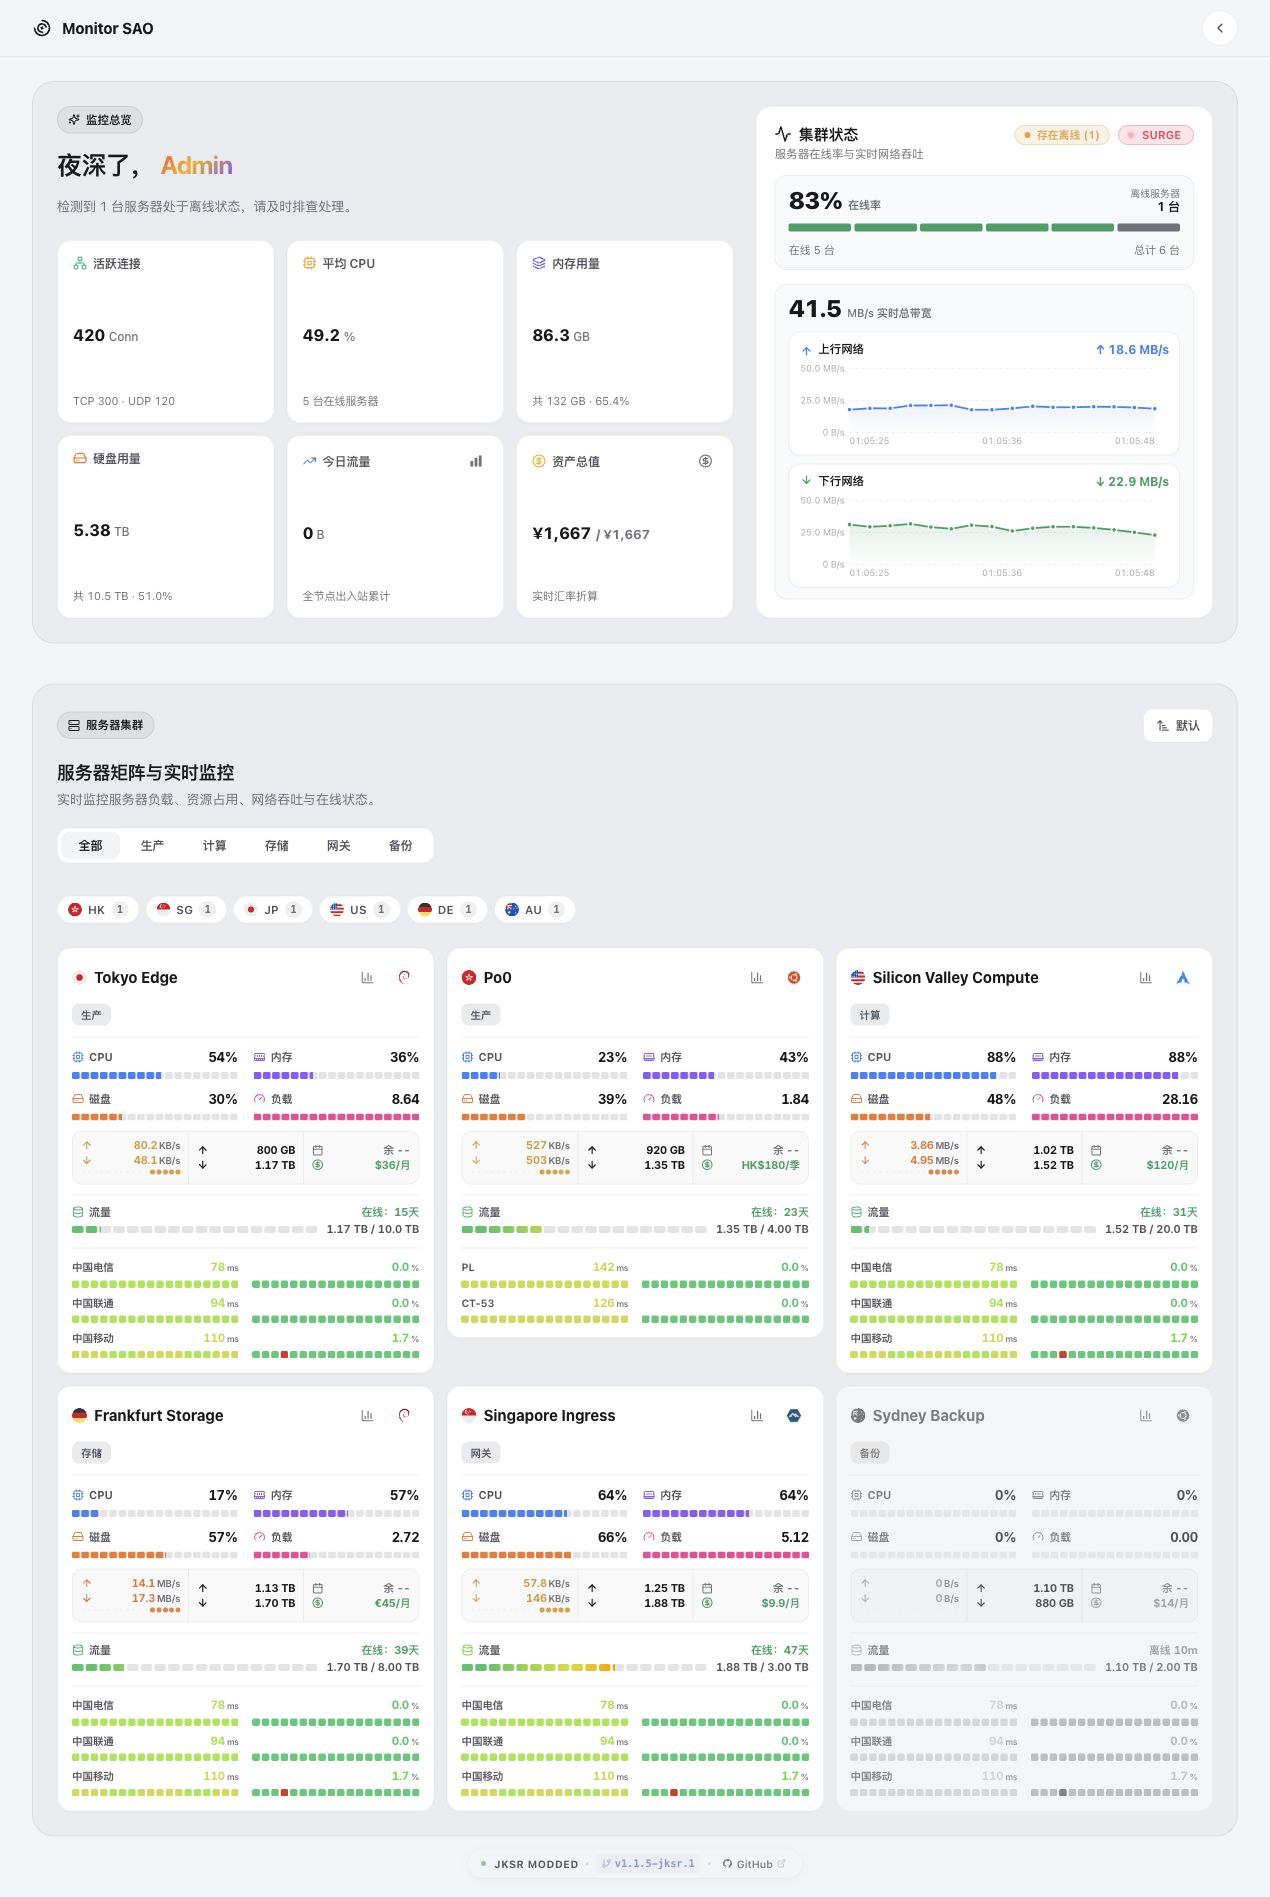
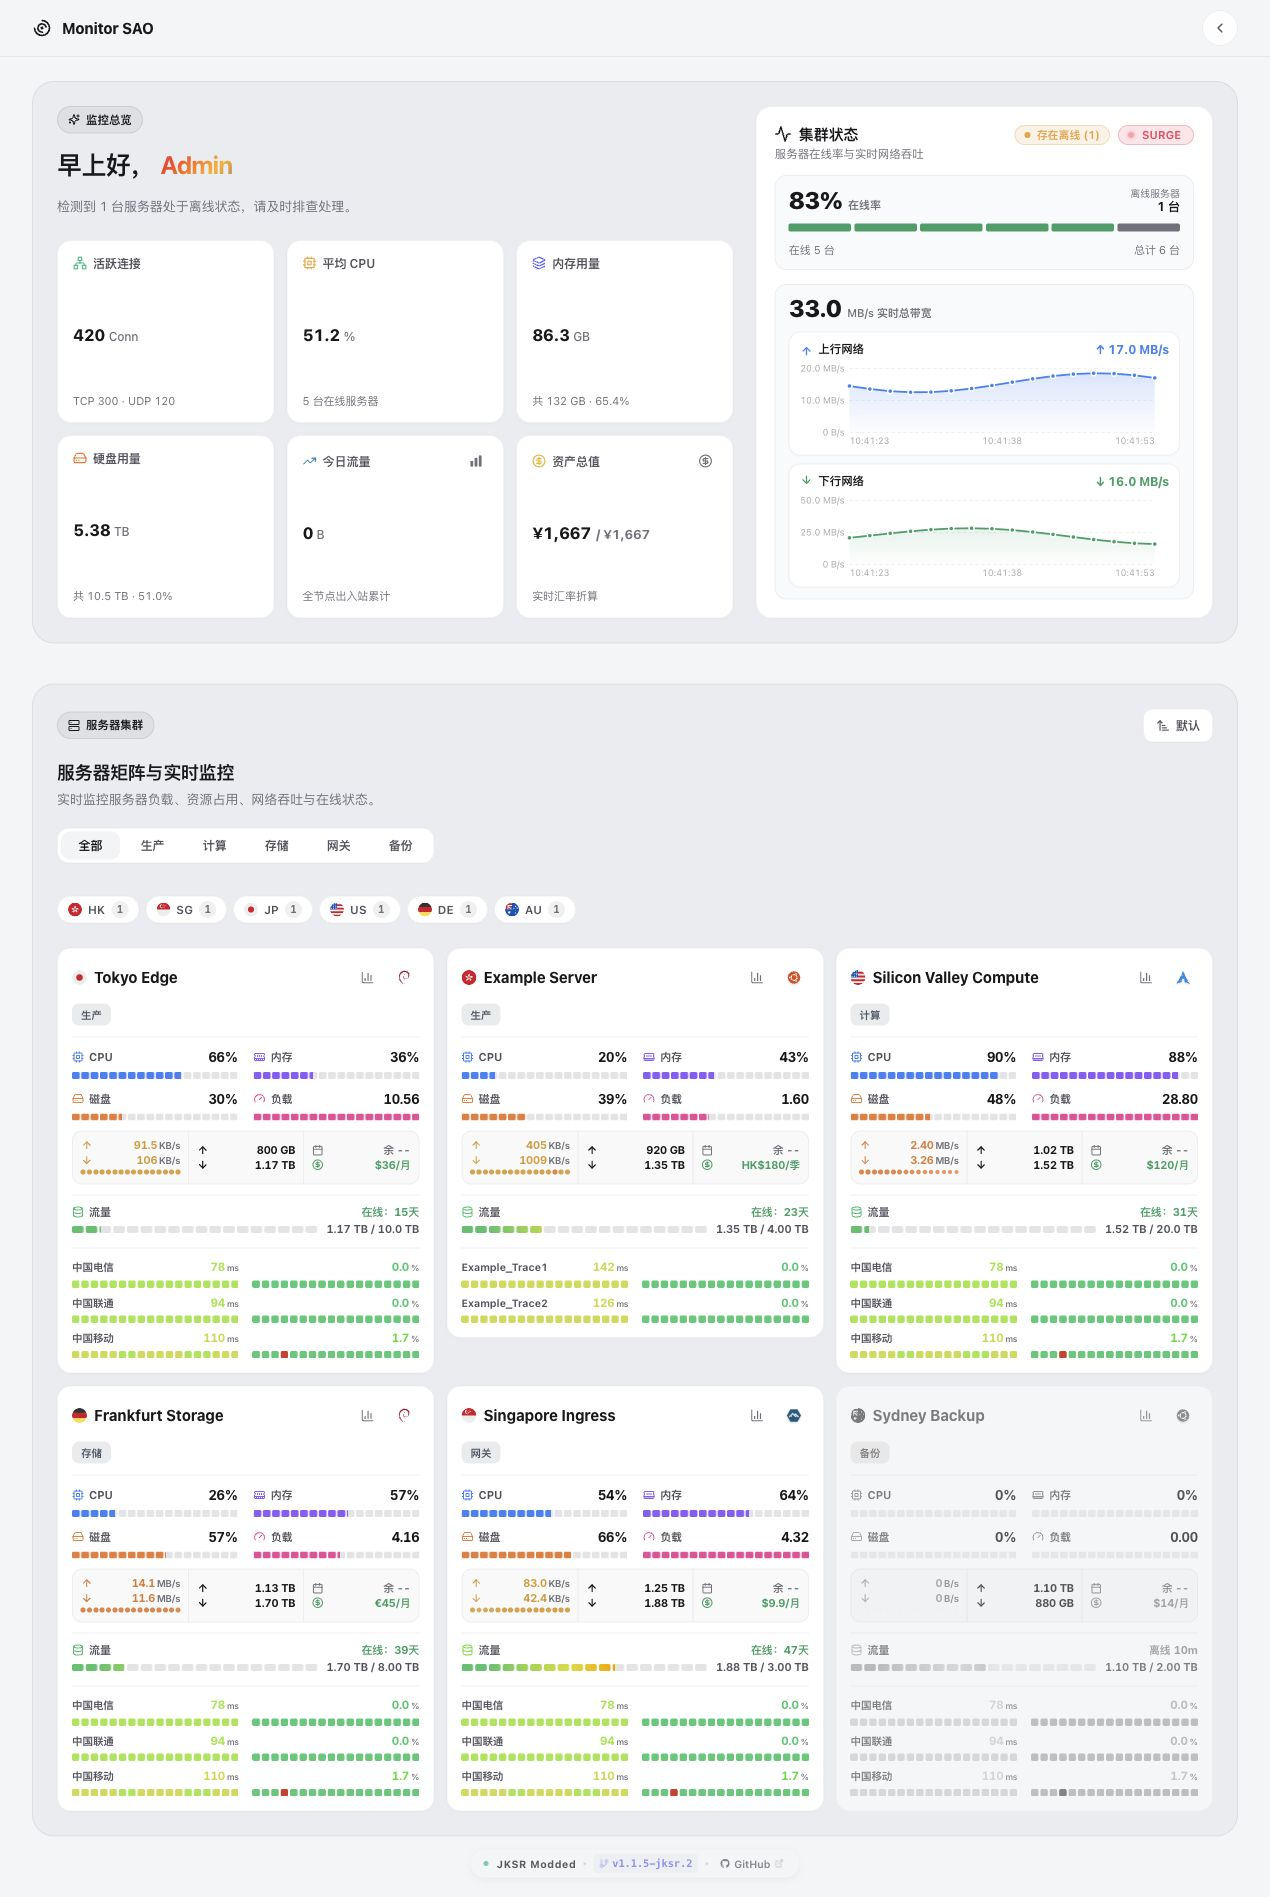
Lint files.

diff --git a/src/hooks/__tests__/nodePingOverview.test.ts b/src/hooks/__tests__/nodePingOverview.test.ts
@@ -2,33 +2,33 @@ import { describe, expect, it, vi } from "vitest";
 import { buildPingOverviewMap } from "@/hooks/usePingOverview";
 import type { PingRecordsResponse, PingTask } from "@/types/komari";
 const task = (id: number, name: string, clients: string[]): PingTask => ({ id, name, clients, interval: 60, loss: 0, type: "icmp", target: "", weight: id });
-const tasks = [task(1, "CT", ["normal"]), task(2, "CU", ["normal"]), task(3, "CM", ["normal"]), task(5, "PL", ["po0"]), task(4, "CT-53", ["po0"]), task(8, "无样本", ["offline"])];
+const tasks = [task(1, "CT", ["normal"]), task(2, "CU", ["normal"]), task(3, "CM", ["normal"]), task(5, "Example_Trace1", ["example-node"]), task(4, "Example_Trace2", ["example-node"]), task(8, "无样本", ["offline"])];
 const data: PingRecordsResponse = { count: 5, tasks, intervalSeconds: 300, records: tasks.slice(0, 5).map((t) => ({ client: t.clients[0], task_id: t.id, time: 1_780_000_000_000, value: 60, loss: 0 })) };
 
 describe("逐节点概览集成", () => {
-  it("同时加载全局三网、Po0 自定义两线和自动节点，保留每个节点顺序", async () => {
+  it("同时加载全局三网、Example Server 自定义两线和自动节点，保留每个节点顺序", async () => {
     const loader = vi.fn(async () => data);
-    const result = await buildPingOverviewMap(1, ["normal", "po0", "offline", "empty"], { "1": ["po0", "offline"] }, [1, 2, 3], undefined, undefined, loader, undefined, undefined, {
-      globalAuto: false, nodeSettings: { po0: { mode: "custom", taskIds: [5, 4] }, offline: { mode: "auto" }, empty: { mode: "auto" } },
+    const result = await buildPingOverviewMap(1, ["normal", "example-node", "offline", "empty"], { "1": ["example-node", "offline"] }, [1, 2, 3], undefined, undefined, loader, undefined, undefined, {
+      globalAuto: false, nodeSettings: { "example-node": { mode: "custom", taskIds: [5, 4] }, offline: { mode: "auto" }, empty: { mode: "auto" } },
     });
     expect(result.multiLines.get("normal")?.map((line) => line.taskName)).toEqual(["CT", "CU", "CM"]);
-    expect(result.multiLines.get("po0")?.map((line) => line.taskName)).toEqual(["PL", "CT-53"]);
+    expect(result.multiLines.get("example-node")?.map((line) => line.taskName)).toEqual(["Example_Trace1", "Example_Trace2"]);
     expect(result.multiLines.get("offline")?.[0]).toMatchObject({ taskId: 8, lastValue: null, loadState: "ready" });
     expect(result.multiLines.has("empty")).toBe(false);
   });
-  it("全局清空可自动展示不同数量；旧 Po0 单线不会截断", async () => {
-    const result = await buildPingOverviewMap(1, ["normal", "po0"], { "4": ["po0"] }, [], undefined, undefined, async () => data, undefined, undefined, { globalAuto: true, nodeSettings: {} });
+  it("全局清空可自动展示不同数量；旧 Example Server 单线不会截断", async () => {
+    const result = await buildPingOverviewMap(1, ["normal", "example-node"], { "4": ["example-node"] }, [], undefined, undefined, async () => data, undefined, undefined, { globalAuto: true, nodeSettings: {} });
     expect(result.multiLines.get("normal")?.map((line) => line.taskId)).toEqual([1, 2, 3]);
-    expect(result.multiLines.get("po0")?.map((line) => line.taskId)).toEqual([5, 4]);
+    expect(result.multiLines.get("example-node")?.map((line) => line.taskId)).toEqual([5, 4]);
   });
   it("任务删除保留空占位，关联变化更新自动任务列表", async () => {
-    const result = await buildPingOverviewMap(1, ["po0"], {}, [], undefined, undefined, async () => ({ count: 0, tasks: [], records: [] }), undefined, undefined, { globalAuto: false, nodeSettings: { po0: { mode: "custom", taskIds: [999] } } });
-    expect(result.multiLines.get("po0")?.[0]).toMatchObject({ taskId: 999, lastValue: null, taskName: "任务 #999（已删除或未关联）" });
-    const auto = await buildPingOverviewMap(1, ["po0"], {}, [], undefined, undefined, async () => ({ count: 0, tasks: [task(9, "新关联", ["po0"])], records: [] }), undefined, undefined, { globalAuto: false, nodeSettings: { po0: { mode: "auto" } } });
-    expect(auto.multiLines.get("po0")?.map((line) => line.taskId)).toEqual([9]);
+    const result = await buildPingOverviewMap(1, ["example-node"], {}, [], undefined, undefined, async () => ({ count: 0, tasks: [], records: [] }), undefined, undefined, { globalAuto: false, nodeSettings: { "example-node": { mode: "custom", taskIds: [999] } } });
+    expect(result.multiLines.get("example-node")?.[0]).toMatchObject({ taskId: 999, lastValue: null, taskName: "任务 #999（已删除或未关联）" });
+    const auto = await buildPingOverviewMap(1, ["example-node"], {}, [], undefined, undefined, async () => ({ count: 0, tasks: [task(9, "新关联", ["example-node"])], records: [] }), undefined, undefined, { globalAuto: false, nodeSettings: { "example-node": { mode: "auto" } } });
+    expect(auto.multiLines.get("example-node")?.map((line) => line.taskId)).toEqual([9]);
   });
   it("取数失败保留错误占位，不回退其他任务", async () => {
-    const result = await buildPingOverviewMap(1, ["po0"], { "1": ["po0"] }, [1, 2, 3], undefined, undefined, async () => { throw new Error("offline"); }, undefined, undefined, { globalAuto: false, nodeSettings: { po0: { mode: "custom", taskIds: [5, 4] } } });
-    expect(result.multiLines.get("po0")?.map((line) => [line.taskId, line.loadState])).toEqual([[5, "error"], [4, "error"]]);
+    const result = await buildPingOverviewMap(1, ["example-node"], { "1": ["example-node"] }, [1, 2, 3], undefined, undefined, async () => { throw new Error("offline"); }, undefined, undefined, { globalAuto: false, nodeSettings: { "example-node": { mode: "custom", taskIds: [5, 4] } } });
+    expect(result.multiLines.get("example-node")?.map((line) => [line.taskId, line.loadState])).toEqual([[5, "error"], [4, "error"]]);
   });
 });

diff --git a/src/services/__tests__/api.test.ts b/src/services/__tests__/api.test.ts
@@ -173,7 +173,7 @@ describe("Monitor API Service", () => {
         return new Response(JSON.stringify({ site_name: "Test", public_page: true }), { headers: { "content-type": "application/json" } });
       });
       await saveThemeSettings({ enableHomepageMultiPing: true, homepageMultiPingTaskIds: [],
-        homepageNodePingSettings: { "po0-id": { mode: "custom", taskIds: [5, 4] }, auto: { mode: "auto" } },
+        homepageNodePingSettings: { "example-node-id": { mode: "custom", taskIds: [5, 4] }, auto: { mode: "auto" } },
         homepagePingBindings: { "1": ["auto"] } });
       expect(saved.futureSetting).toBe("keep");
       expect(saved.homepageMultiPingTaskIds).toBe("[]");
@@ -182,7 +182,7 @@ describe("Monitor API Service", () => {
       resetLocalThemeSettings(); clearServerThemeSettingsCache();
       const result = await getPublic();
       expect(result.theme_settings.homepageMultiPingTaskIds).toEqual([]);
-      expect(result.theme_settings.homepageNodePingSettings).toEqual({ "po0-id": { mode: "custom", taskIds: [5, 4] }, auto: { mode: "auto" } });
+      expect(result.theme_settings.homepageNodePingSettings).toEqual({ "example-node-id": { mode: "custom", taskIds: [5, 4] }, auto: { mode: "auto" } });
     });
     it("保存失败不会更新本地，也不会被报告为成功；读取失败不发 PUT", async () => {
       resetLocalThemeSettings(); saveLocalThemeSettings({ homepageMultiPingTaskIds: [1] });

diff --git a/src/utils/__tests__/nodePingSettings.test.ts b/src/utils/__tests__/nodePingSettings.test.ts
@@ -3,12 +3,12 @@ import { normalizeHomepageNodePingSettings, resolveHomepagePingSelections } from
 import { normalizeThemeSettings } from "@/utils/themeSettings";
 
 describe("逐服务器线路优先级与兼容", () => {
-  it("普通节点跟随三网，Po0 按稳定 ID 指定 PL、CT-53 顺序", () => {
-    const result = resolveHomepagePingSelections(["node-ct", "po0-id"], { "1": ["po0-id"] }, [1, 2, 3], {
-      globalAuto: false, nodeSettings: { "po0-id": { mode: "custom", taskIds: [5, 4] } },
+  it("普通节点跟随三网，Example Server 按稳定 ID 指定 Example_Trace1、Example_Trace2 顺序", () => {
+    const result = resolveHomepagePingSelections(["node-ct", "example-node-id"], { "1": ["example-node-id"] }, [1, 2, 3], {
+      globalAuto: false, nodeSettings: { "example-node-id": { mode: "custom", taskIds: [5, 4] } },
     });
     expect(result.multiTaskIdsByClient.get("node-ct")).toEqual([1, 2, 3]);
-    expect(result.multiTaskIdsByClient.get("po0-id")).toEqual([5, 4]);
+    expect(result.multiTaskIdsByClient.get("example-node-id")).toEqual([5, 4]);
   });
   it("显式自动不受旧绑定或全局槽位限制，跟随全局仍保留单线路", () => {
     const result = resolveHomepagePingSelections(["auto", "old"], { "7": ["auto", "old"] }, [], {

diff --git a/src/dev/mockApi.ts b/src/dev/mockApi.ts
@@ -233,7 +233,7 @@ function getMockNodes(): NodeInfo[] {
 
 const nodes: NodeInfo[] = getMockNodes();
 const pingScenario = typeof window !== "undefined" && new URLSearchParams(window.location.search).get("pingScenario") === "1";
-if (pingScenario && nodes[1]) nodes[1] = { ...nodes[1], name: "Po0" };
+if (pingScenario && nodes[1]) nodes[1] = { ...nodes[1], name: "Example Server" };
 
 function wave(seed: number, period: number, amplitude: number, offset: number) {
   return offset + Math.sin((Date.now() / period) * (1 + seed * 0.17)) * amplitude;
@@ -502,7 +502,7 @@ const pingTasks = [
   { id: 1, name: "中国电信", target: "电信探针" },
   { id: 2, name: "中国联通", target: "联通探针" },
   { id: 3, name: "中国移动", target: "移动探针" },
-  ...(pingScenario ? [{ id: 5, name: "PL", target: "Po0 PL" }, { id: 4, name: "CT-53", target: "Po0 CT-53" }] : []),
+  ...(pingScenario ? [{ id: 5, name: "Example_Trace1", target: "example.invalid" }, { id: 4, name: "Example_Trace2", target: "example.invalid" }] : []),
 ].map((task, index) => ({
   ...task,
   interval: 60,

diff --git a/README.md b/README.md
@@ -2,19 +2,18 @@
 
 本 Fork 在 Monitor-SAO 基础上增加逐服务器多线路和独立丢包色带，版本为 `1.1.5-jksr.2`。保持主题短名 `sao`，沿用原站点配置。
 
-- **逐服务器线路**：在“主题设置 → 延迟”选择跟随全局、自动或自定义；按节点 ID/UUID 保存，自定义支持 1–8 个任务及排序。例如普通节点跟随 CT/CU/CM，Po0 单独显示 PL、CT-53。
+- **逐服务器线路**：在“主题设置 → 延迟”选择跟随全局、自动或自定义；按节点 ID/UUID 保存，自定义支持 1–8 个任务及排序。例如普通节点跟随全局，Some_Server 单独显示 Example_Trace1、Example_Trace2。
 - **全局空槽位**：允许删除最后一个槽位或全部清空，保存后仍为空；开启全局多线路时，空列表表示按各节点关联任务自动展示。
 - **明确的覆盖规则**：逐节点自动/自定义优先于全局和旧单线路绑定；跟随全局保留旧行为，提供旧绑定迁移按钮。
 - **独立丢包色带**：关闭色带后延迟图表向上补位；色带和线路开关保留图表实例与横轴缩放，线路显隐按需要更新纵轴。
-- **统一卡片与样式**：大卡、小卡、迷你卡、列表共用选线规则；修复下拉箭头内距，页脚署名为 `JKSR Modded`。
-
+- **统一卡片与样式**：大卡、小卡、迷你卡、列表共用选线规则；修复下拉箭头内距。
 
 ## 获取本 Fork 安装包
 
 1. 在 [本 Fork Releases](https://github.com/michaeloversea/Monitor-SAO-Mod/releases) 下载对应版本的 `theme.tar.gz`。
 2. 在极简探针后台主题管理中直接上传 `theme.tar.gz` 并启用，无需解压。
 
-也可以本地构建：`npm ci` 后运行 `npm run lint`、`npm run typecheck`、`npm test` 和 `npm run package`。(https://github.com/michaeloversea/Monitor-SAO-Mod/actions/workflows/build-package.yml) 下载 `sao-theme-package`，解压外层 ZIP 后取出 `theme.tar.gz`。
+也可以本地构建：`npm ci` 后运行 `npm run lint`、`npm run typecheck`、`npm test` 和 `npm run package`，安装包输出在仓库根目录。未发布版本的构建产物可在 [Actions](https://github.com/michaeloversea/Monitor-SAO-Mod/actions/workflows/build-package.yml) 下载 `sao-theme-package`，解压外层 ZIP 后取出 `theme.tar.gz`。
 
 <p align="center">
   <strong>面向多种探针服务端的 SAO 系列探针主题</strong>

diff --git a/.github/release-notes/v1.1.5-jksr.2.md b/.github/release-notes/v1.1.5-jksr.2.md
@@ -1,11 +1,7 @@
 # SAO · JKSR Modded v1.1.5-jksr.2
 
-修复上一版上传安装时报“主题包里没有 theme.json”的打包错误。请使用本版本的 `theme.tar.gz`，不要继续使用 v1.1.5-jksr.1。
-
 - 上传包根目录直接放置 `theme.json`、`dist/index.html` 和 `preview.png`，去掉错误的 `sao/` 外层目录。安装器自行创建主题目录。
 - 打包脚本增加根目录布局与 gzip 校验，回归测试覆盖正确布局、多套目录和缺少页面。
-- 保留逐服务器多线路、全局空槽位、自动模式兼容、独立丢包色带及 JKSR Modded 署名。
+- 保留逐服务器多线路、全局空槽位、自动模式兼容、独立丢包色带。
 
-验证：48 个测试文件、351 项测试，ESLint、TypeScript、生产构建、tar/ZIP 完整性通过；按照官方安装器的 staging/publish 路径规则模拟解压检查通过。尚未部署到真实服务器。
-
-安装：下载附件 **theme.tar.gz**，直接在极简探针后台上传，无需解压。主题短名保持 `sao`，沿用既有站点配置。
+安装：下载附件 **theme.tar.gz**，直接在极简探针后台上传，无需解压。

diff --git a/.github/release-notes/v1.1.5-jksr.1.md b/.github/release-notes/v1.1.5-jksr.1.md
@@ -1,6 +1,6 @@
 # SAO · JKSR Modded v1.1.5-jksr.1
 
-支持每台服务器分别选择延迟检测线路。例如普通服务器跟随全局 CT/CU/CM，Po0 单独按顺序显示 PL、CT-53。
+支持每台服务器分别选择延迟检测线路。普通服务器可以跟随全局，其他服务器可以分别选择和排列自己的检测任务。
 
 - 新增逐服务器跟随全局、自动、自定义模式，使用稳定节点 ID/UUID 保存；四种卡片共用任务选择规则。
 - 全局槽位允许全部清空并保存，开启多线路时空列表表示按节点任务自动展示。
@@ -12,4 +12,4 @@
 
 安装：在极简探针后台上传 `theme.tar.gz` 并启用主题，然后进入“主题设置 → 延迟”选择实际任务。主题短名保持 `sao`，继续读取既有站点配置。
 
-完整配置兼容、审查截图和验证说明见仓库 `docs/jksr-review/README.md`。
+配置入口：主题设置 → 延迟。
